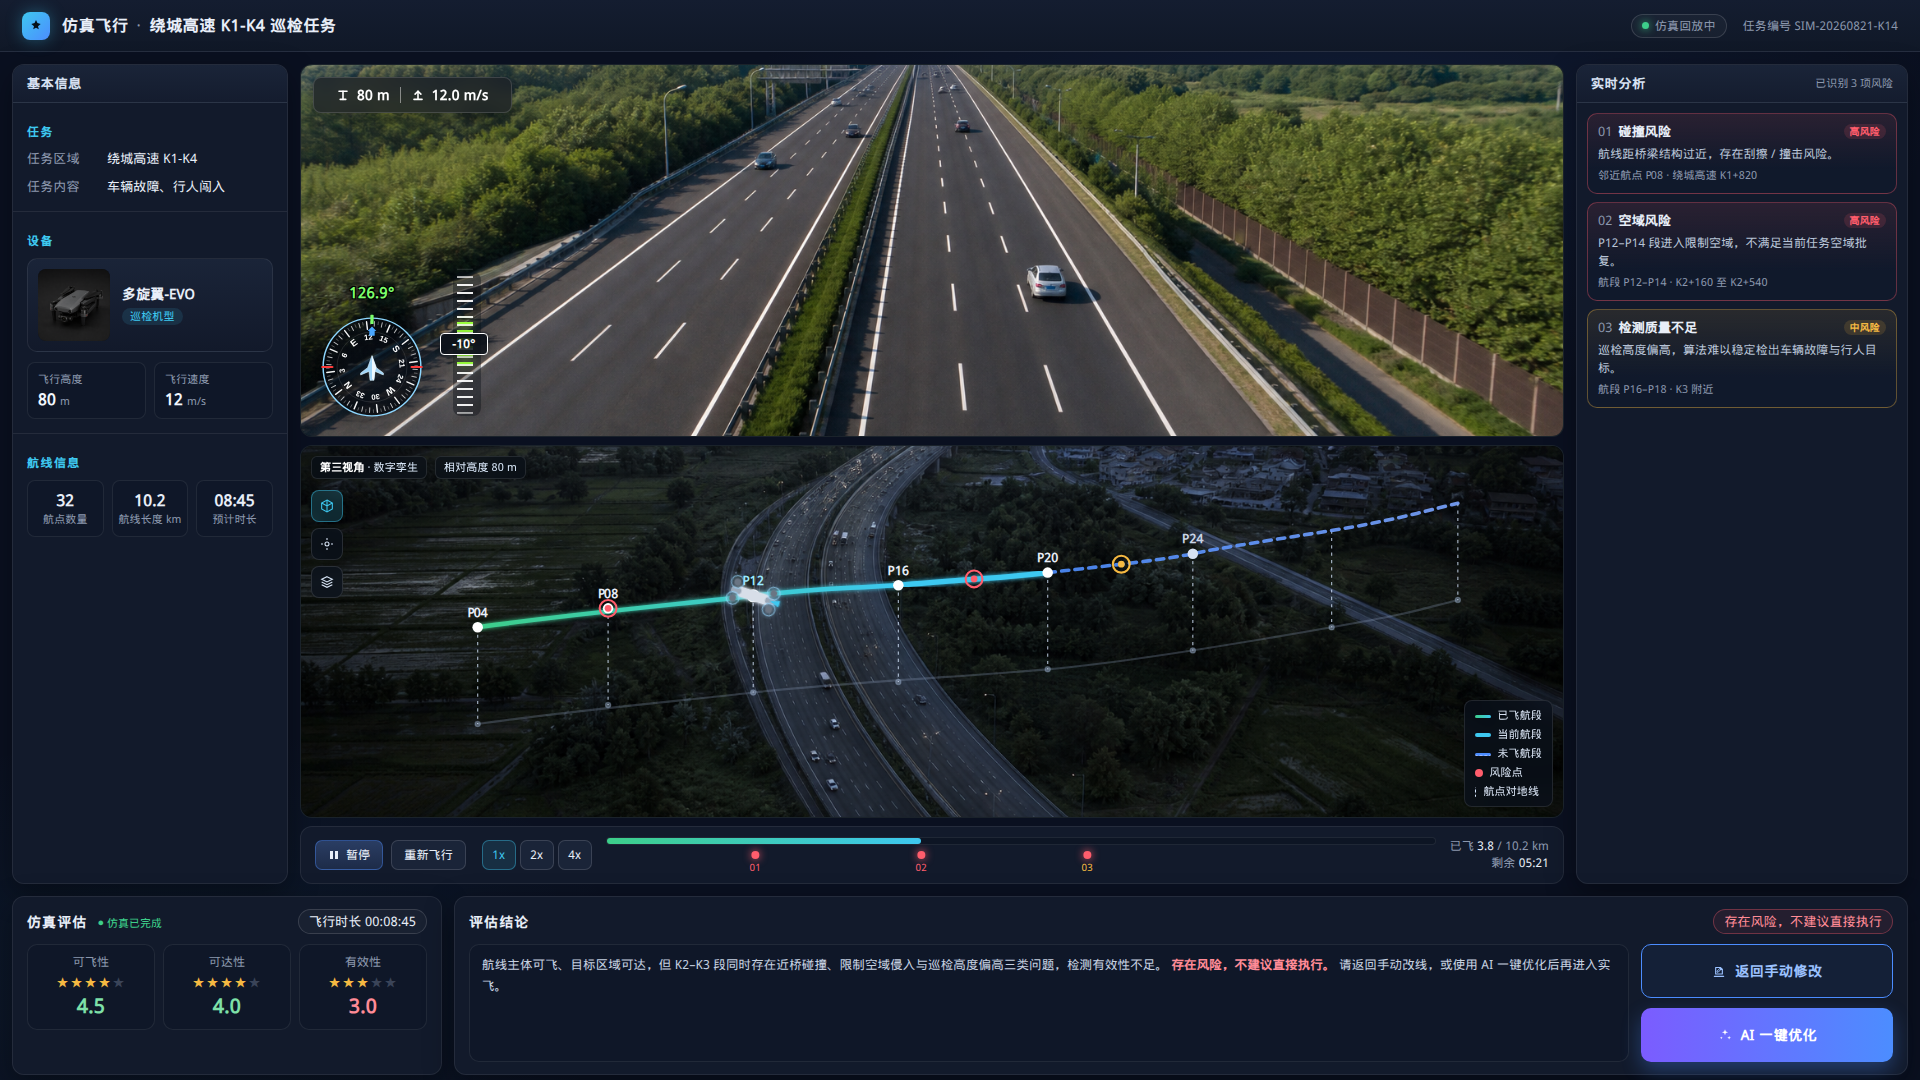
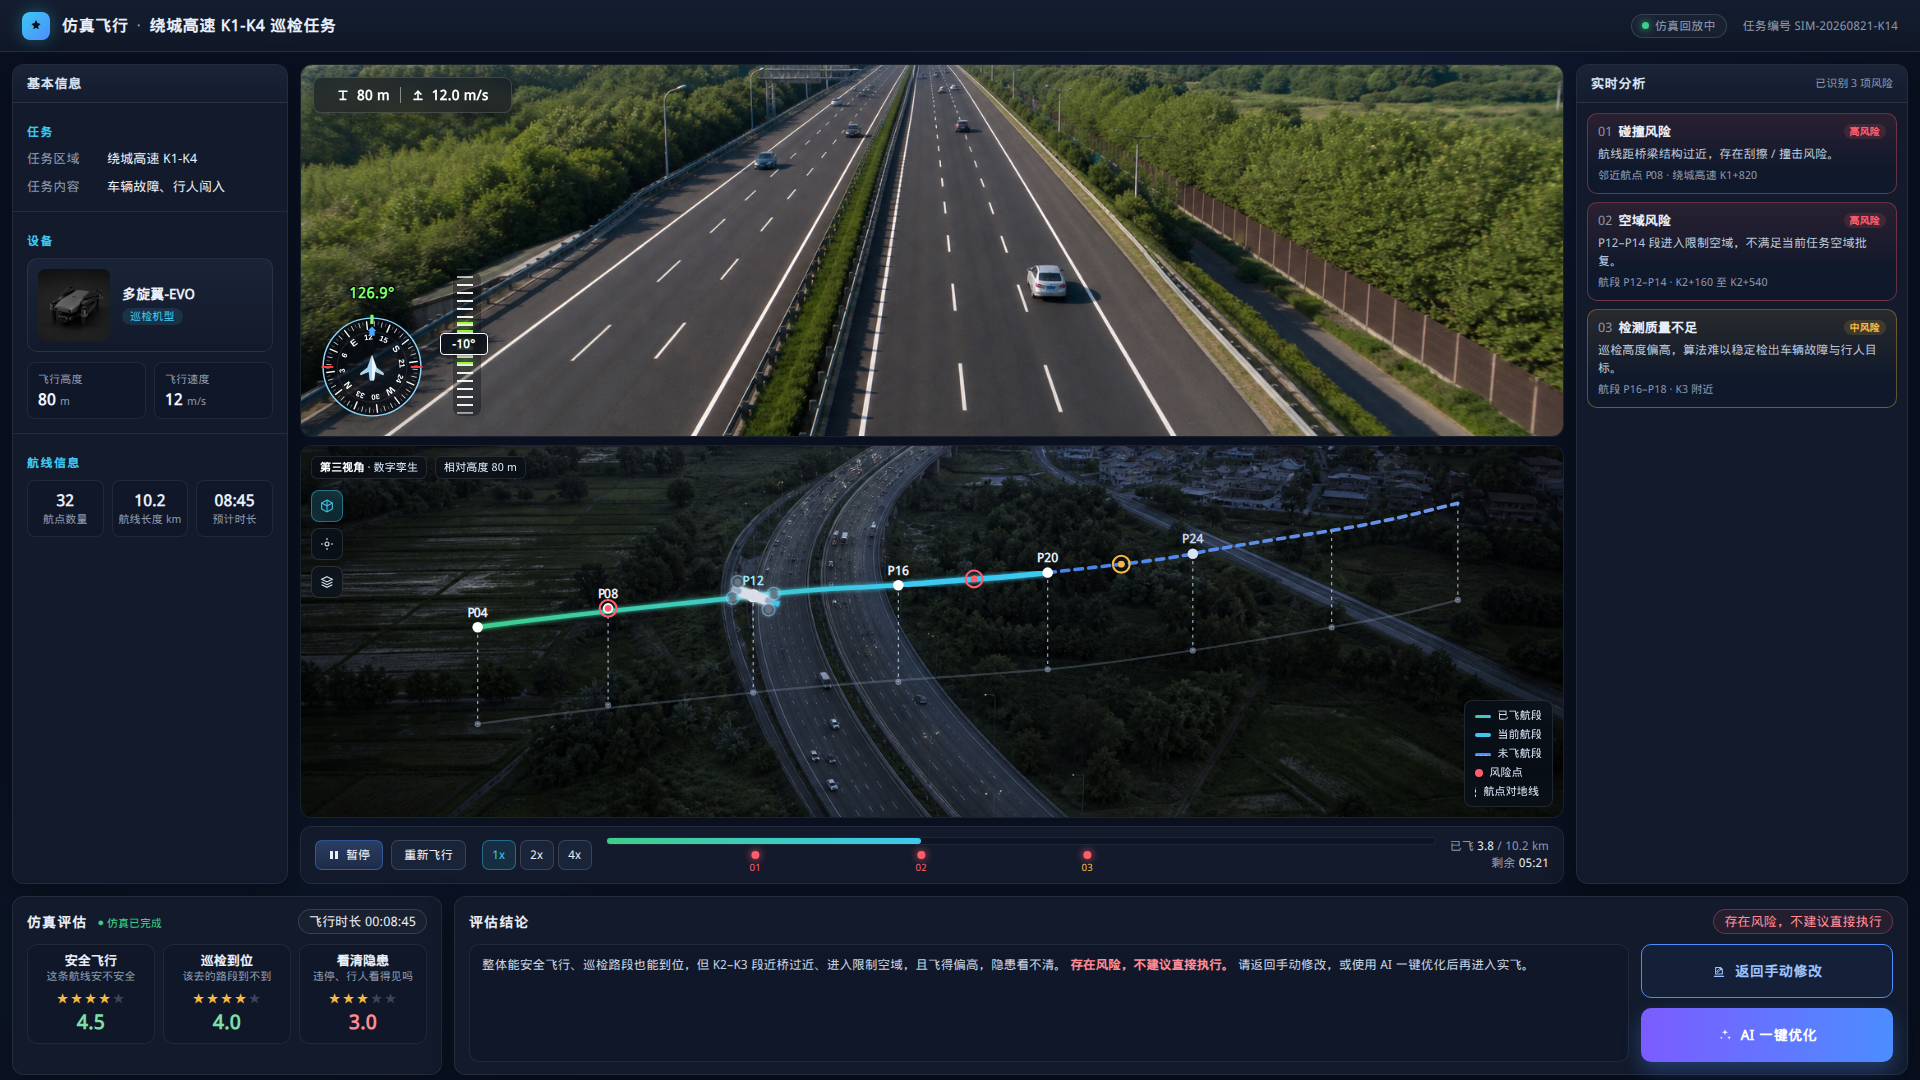
Rename evaluation scores into plain business language.
Replace flyability, reachability, and effectiveness with 安全飞行,
巡检到位, and 看清隐患, each with a one-line operational question.

Changed region(s): [[0.25, 0.8861, 0.8438, 0.9167], [0.0938, 0.8861, 0.2188, 0.9472], [0.0312, 0.8861, 0.0625, 0.9472]]

diff --git a/design/simulation-flight.html b/design/simulation-flight.html
@@ -688,14 +688,25 @@
     }
 
     .dim {
-      padding: 10px 8px 11px;
+      padding: 8px 8px 9px;
       border-radius: 10px;
       background: #0f1728;
       border: 1px solid var(--line);
       text-align: center;
     }
 
-    .dim .name { color: var(--muted); font-size: 12px; margin-bottom: 6px; }
+    .dim .name {
+      color: var(--text);
+      font-size: 13px;
+      font-weight: 700;
+      margin-bottom: 2px;
+    }
+    .dim .hint {
+      color: var(--muted);
+      font-size: 11px;
+      margin-bottom: 6px;
+      line-height: 1.35;
+    }
     .stars { color: var(--amber); letter-spacing: 1px; font-size: 13px; }
     .stars .off { color: #3a4458; }
     .score { margin-top: 4px; font-size: 20px; font-weight: 700; }
@@ -1171,17 +1182,20 @@
         </div>
         <div class="dims">
           <div class="dim">
-            <div class="name">可飞性</div>
+            <div class="name">安全飞行</div>
+            <div class="hint">这条航线安不安全</div>
             <div class="stars">★★★★<span class="off">★</span></div>
             <div class="score ok">4.5</div>
           </div>
           <div class="dim">
-            <div class="name">可达性</div>
+            <div class="name">巡检到位</div>
+            <div class="hint">该去的路段到不到</div>
             <div class="stars">★★★★<span class="off">★</span></div>
             <div class="score ok">4.0</div>
           </div>
           <div class="dim">
-            <div class="name">有效性</div>
+            <div class="name">看清隐患</div>
+            <div class="hint">违停、行人看得见吗</div>
             <div class="stars">★★★<span class="off">★★</span></div>
             <div class="score bad">3.0</div>
           </div>
@@ -1195,7 +1209,7 @@
         </div>
         <div class="conclusion">
           <div class="concl-text">
-            航线主体可飞、目标区域可达，但 K2–K3 段同时存在近桥碰撞、限制空域侵入与巡检高度偏高三类问题，检测有效性不足。
+            整体能安全飞行、巡检路段也能到位，但 K2–K3 段近桥过近、进入限制空域，且飞得偏高，隐患看不清。
             <span class="warn">存在风险，不建议直接执行。</span>
             请返回手动修改，或使用 AI 一键优化后再进入实飞。
           </div>

diff --git a/design/README.md b/design/README.md
@@ -13,6 +13,10 @@
 
 ## 仿真评估
 
+- 三个评分维度改为业务用语，避免技术术语：
+  - **安全飞行**（这条航线安不安全）
+  - **巡检到位**（该去的路段到不到）
+  - **看清隐患**（违停、行人看得见吗）
 - 存在风险时，用户可选操作只保留两项：**返回手动修改**、**AI 一键优化**
 - 去掉忽略风险、重新仿真等其它出口，避免带风险直接执行
 
